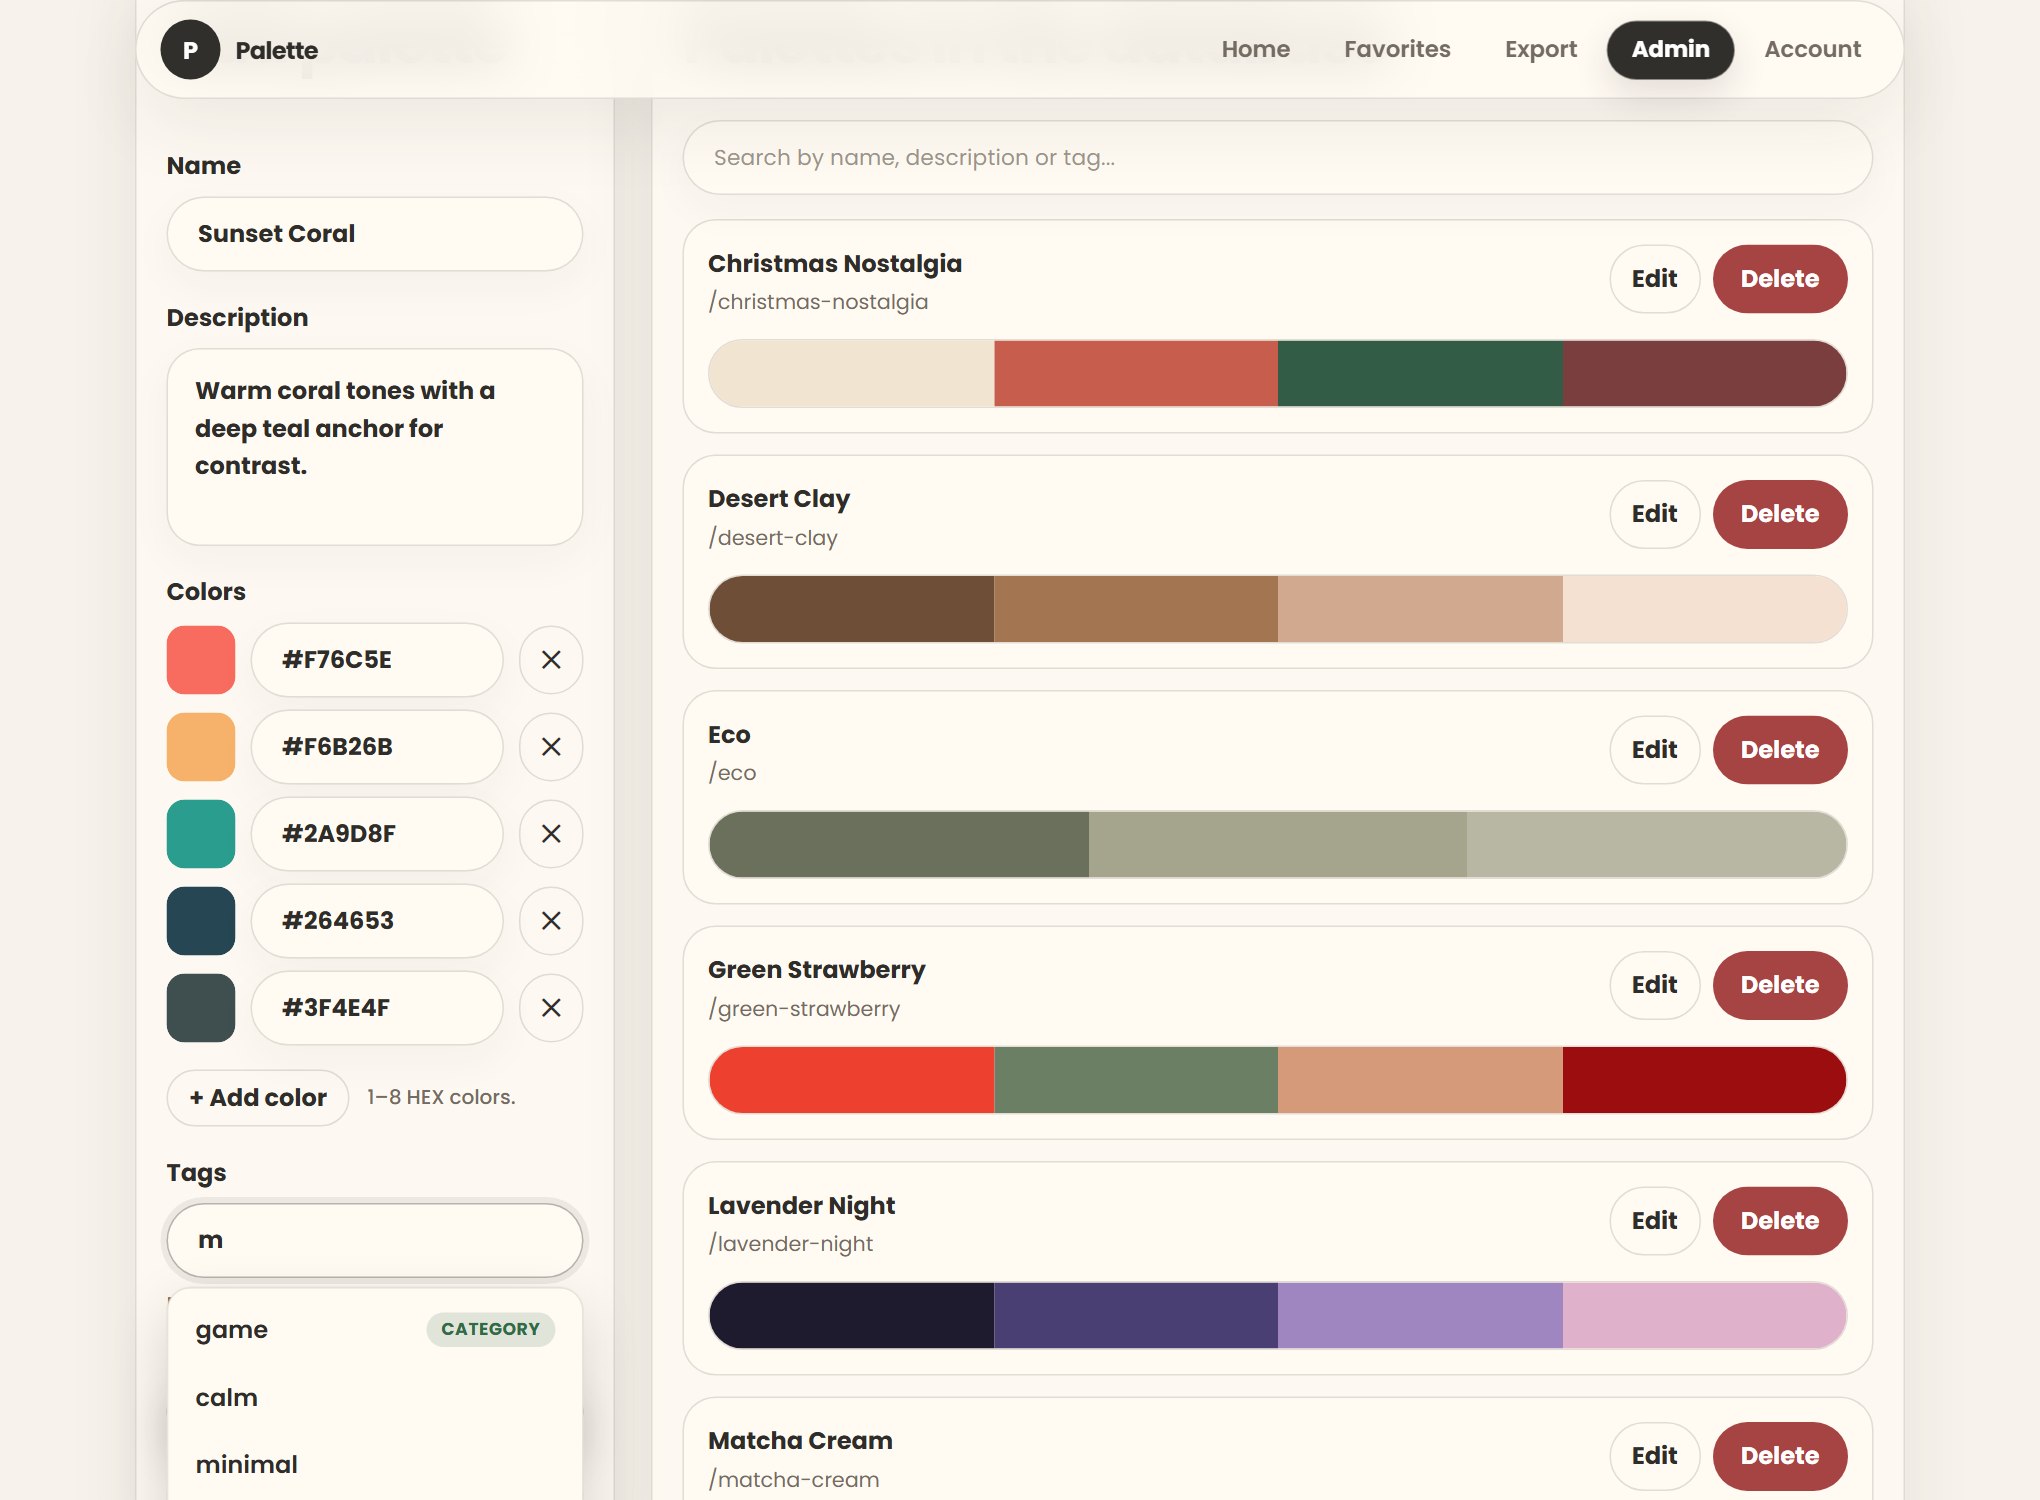
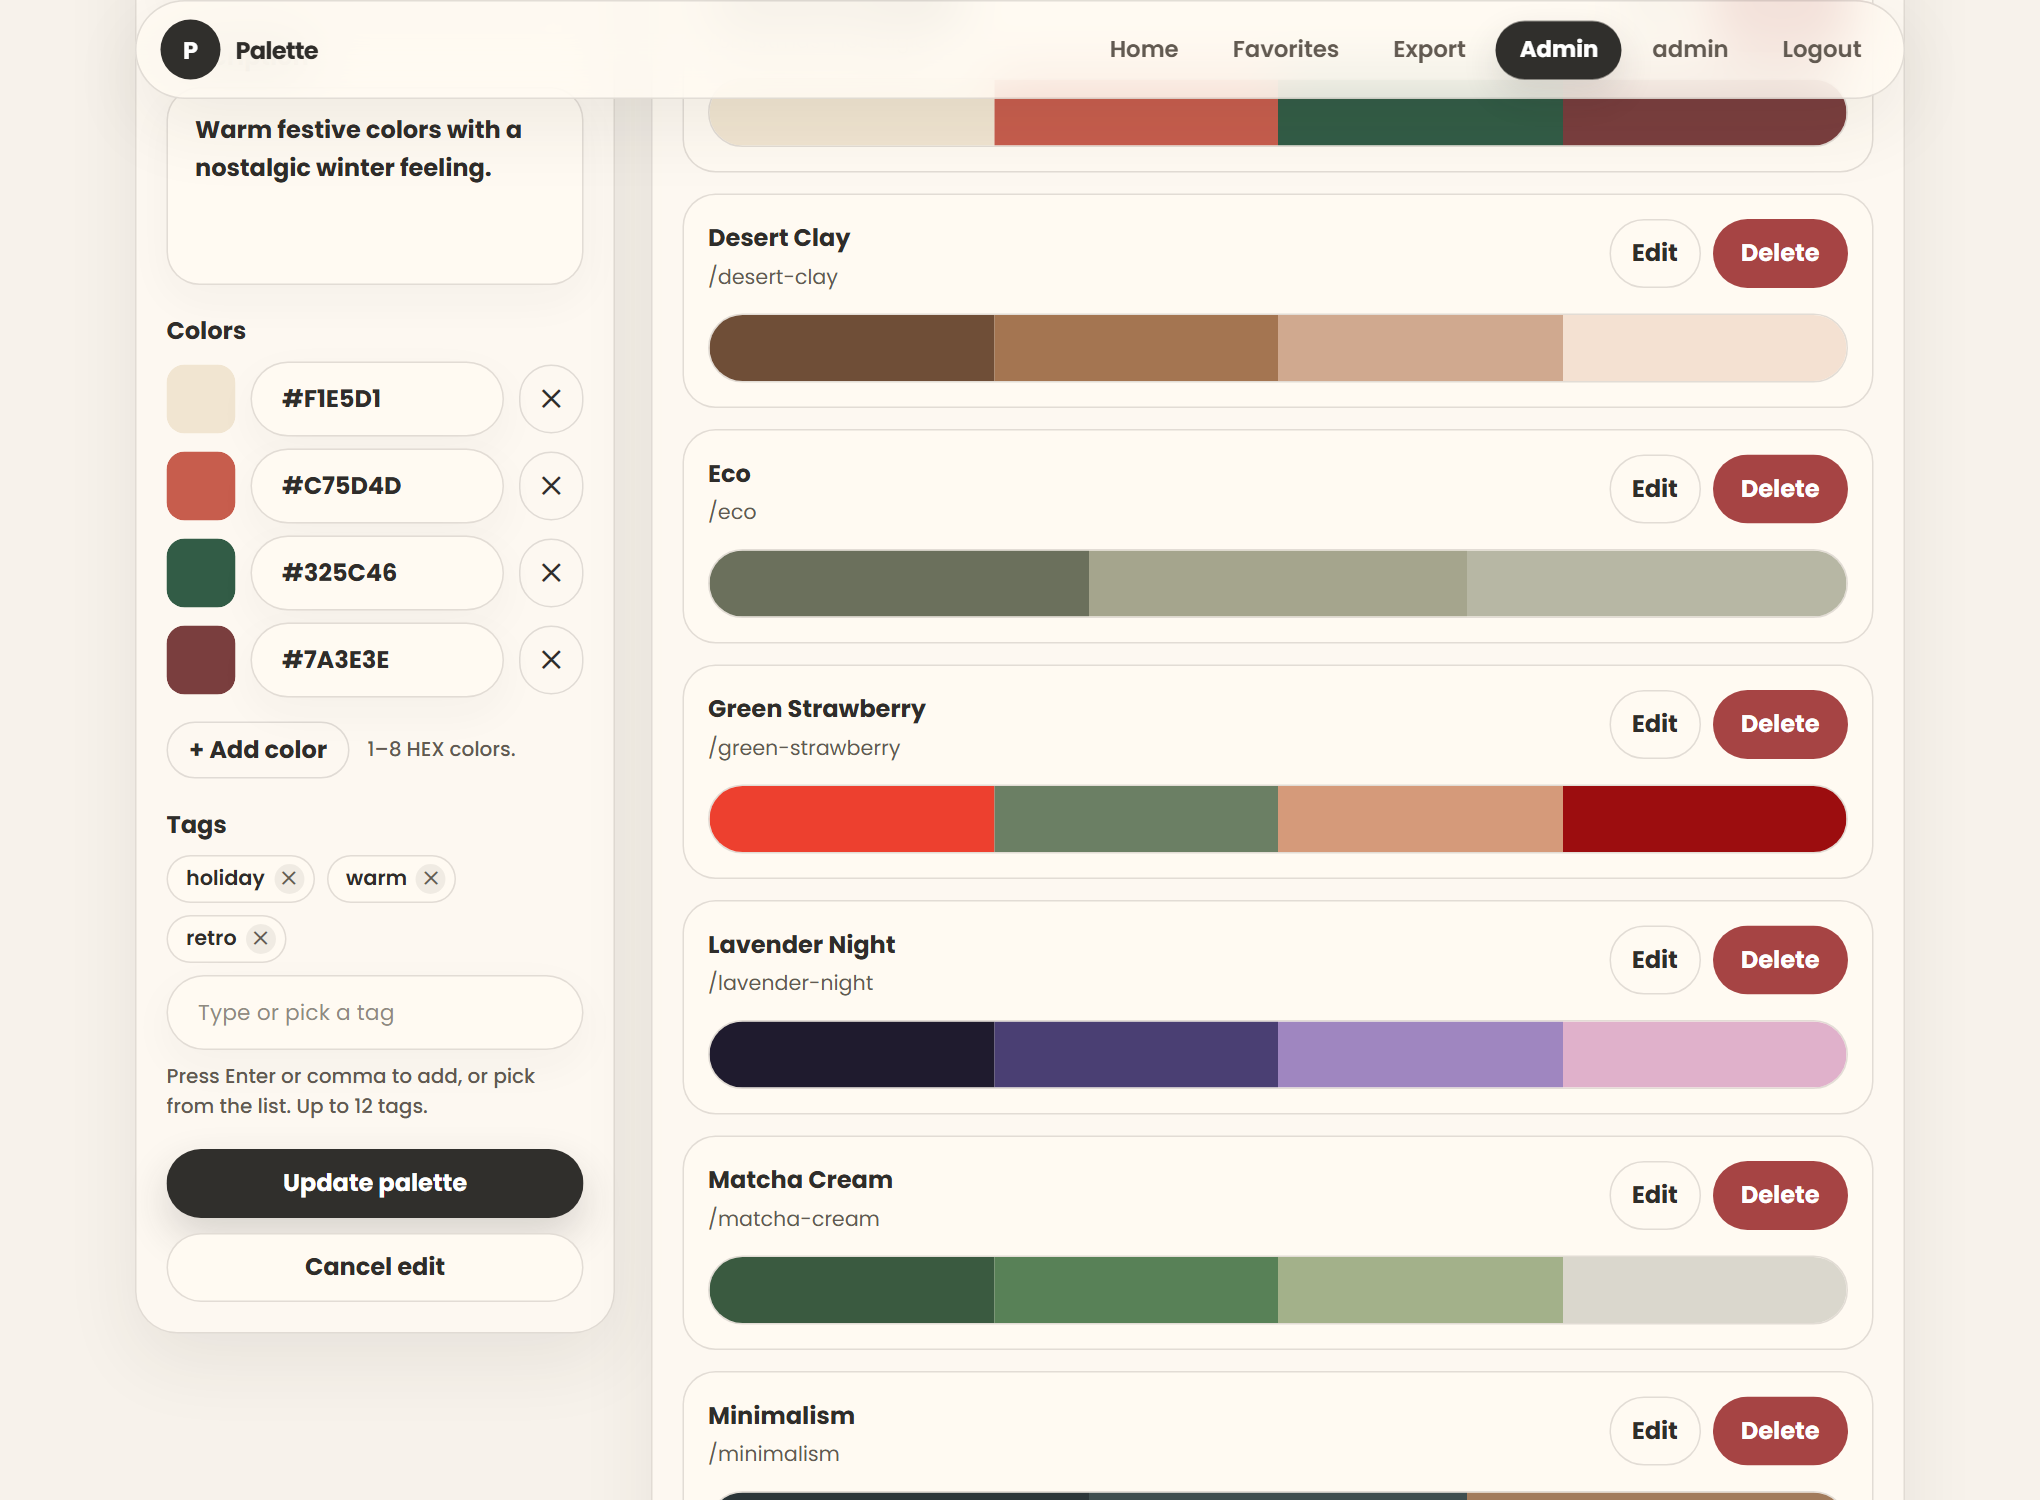
docs: regenerate the screenshots, and fix what the graph found
The three images the README embeds were captured by hand and then went eight
releases untouched. home.png still advertised v4.7.1 in the hero and described
that release's features; export.png's footer said the same. That is what anyone
opening the README saw.

They are generated now. `npm run screenshots` brings the Compose stack up,
captures against the real backend and seeded database, and tears it down — so
the next release is one command rather than a chore nobody remembers.

Getting them right took four attempts, and each failure is written into the
spec so it is not repeated:

- At 1020 CSS pixels the layout hits a narrower breakpoint and the tag filters
  fall below the fold. The capture is 1360x1000 at 1.5x, which is the same
  2040x1500 on disk but the desktop layout the captions describe.
- The admin shot needed the colour rows scrolled into frame, and the obvious
  target did not work: "Tags" also matches the Palettes/Tags tab near the top,
  so centring it scrolled nowhere. Two captures shipped identical to the old
  frame before an assertion on window.scrollY caught it.
- The export shot defaulted to CSS variables while its caption promised the PNG
  preview, so it now switches format first.

Two drifts a knowledge-graph pass over the repository surfaced, both verified
against the code before changing anything:

- docs/database.md said the connection uses `postgresql+psycopg://`. Compose
[…]

diff --git a/frontend-react/e2e/screenshots/capture.spec.ts b/frontend-react/e2e/screenshots/capture.spec.ts
@@ -1,0 +1,103 @@
+import { test, expect, type Page } from "@playwright/test";
+import path from "node:path";
+import { fileURLToPath } from "node:url";
+
+/**
+ * Regenerates the three screenshots the README and the wiki embed.
+ *
+ * These are not assertions and nothing fails if the page looks different — that is what the
+ * baselines under e2e/visual are for. This exists because the previous set was captured by
+ * hand and then sat unchanged through eight releases: the hero in docs/assets/home.png still
+ * advertised v4.7.1 and described features from that release. A capture nobody can reproduce
+ * is a capture nobody updates.
+ *
+ * Against the real stack rather than stubs, because the point of these images is to show the
+ * product with its actual seeded data — the palette names and the count are real.
+ */
+
+// __dirname does not exist in an ES module, and resolving from cwd would depend on where the
+// runner was invoked. Derive it from this file instead.
+const HERE = path.dirname(fileURLToPath(import.meta.url));
+const OUT = path.resolve(HERE, "../../../docs/assets");
+
+const ADMIN_USER = process.env.SCREENSHOT_ADMIN_USER ?? "admin";
+const ADMIN_PASSWORD = process.env.SCREENSHOT_ADMIN_PASSWORD ?? "";
+
+// 2040x1500 on disk, matching the previous set and the README's table layout. The split
+// matters as much as the product: at 1020 CSS pixels the layout hits a narrower breakpoint,
+// the type scales up and the tag filters fall below the fold — the first attempt captured a
+// page that stopped at the search field, which is not what the caption promises.
+test.use({ viewport: { width: 1360, height: 1000 }, deviceScaleFactor: 1.5 });
+
+async function settle(page: Page) {
+  await page.evaluate(() => document.fonts.ready);
+  await page.evaluate(() => {
+    document.documentElement.style.scrollBehavior = "auto";
+    window.scrollTo(0, 0);
+  });
+  await page.waitForTimeout(400);
+}
+
+async function signInAsAdmin(page: Page) {
+  await page.goto("/login");
+  await page.getByLabel("Username/Email").fill(ADMIN_USER);
+  await page.locator('input[type="password"]').first().fill(ADMIN_PASSWORD);
+  await page.getByRole("button", { name: "Login", exact: true }).click();
+  await expect(page.getByRole("link", { name: ADMIN_USER, exact: true })).toBeVisible();
+}
+
+test("home", async ({ page }) => {
+  await page.goto("/", { waitUntil: "networkidle" });
+  await expect(page.getByRole("article").first()).toBeVisible();
+  await settle(page);
+  await page.screenshot({ path: path.join(OUT, "home.png") });
+});
+
+test("export", async ({ page }) => {
+  await page.goto("/export", { waitUntil: "networkidle" });
+
+  // A picked palette with its preview rendered — an empty export page shows nothing worth
+  // putting in a README. The field is "Search palette", not the home page's search box.
+  await page.getByLabel("Search palette").fill("Green Strawberry");
+  await page
+    .getByRole("button", { name: /Green Strawberry/i })
+    .first()
+    .click();
+  await expect(page.getByText(/Green Strawberry/).first()).toBeVisible();
+
+  // PNG, not the default CSS variables: the caption promises "a selected palette with the PNG
+  // preview", and the code output is already visible on the page in every other form.
+  await page.getByRole("button", { name: /format/i }).click();
+  await page.getByRole("option", { name: "PNG image" }).click();
+  await expect(
+    page.getByRole("img", { name: /palette card|preview/i }).first(),
+  ).toBeVisible();
+
+  await settle(page);
+  await page.screenshot({ path: path.join(OUT, "export.png") });
+});
+
+test("admin", async ({ page }) => {
+  test.skip(!ADMIN_PASSWORD, "SCREENSHOT_ADMIN_PASSWORD not provided");
+
+  await signInAsAdmin(page);
+  await page.goto("/admin", { waitUntil: "networkidle" });
+
+  // Open a palette in the colour-row editor: the empty create form does not show the thing the
+  // README caption promises, "the dynamic HEX-row colour editor with tag chips".
+  await page.getByRole("button", { name: "Edit" }).first().click();
+  await expect(page.getByLabel(/^name$/i)).not.toHaveValue("");
+  await settle(page);
+
+  // settle() pins the page at the top, which frames the heading rather than the editor, so
+  // bring the colour rows into view. The target has to be unique to the editor: "Tags" also
+  // matches the Palettes/Tags tab near the top, and centring that scrolled nowhere — two
+  // captures shipped identical to the previous frame before the assertion below caught it.
+  await page
+    .getByRole("button", { name: /add color/i })
+    .evaluate((el) => el.scrollIntoView({ block: "center", behavior: "instant" }));
+  await page.waitForTimeout(400);
+  expect(await page.evaluate(() => window.scrollY)).toBeGreaterThan(0);
+
+  await page.screenshot({ path: path.join(OUT, "admin.png") });
+});

diff --git a/frontend-react/playwright.screenshots.config.ts b/frontend-react/playwright.screenshots.config.ts
@@ -1,0 +1,23 @@
+import { defineConfig, devices } from "@playwright/test";
+
+/**
+ * Capture config for the README and wiki images — a generator, not a test suite.
+ *
+ * Kept apart from playwright.config.ts because these specs write into docs/assets/ and would
+ * be actively wrong to run on a pull request. The default config ignores this directory, the
+ * same way it ignores visual/ and integration/.
+ *
+ * Serial, because the admin capture signs in and the three share one running stack.
+ */
+export default defineConfig({
+  testDir: "./e2e/screenshots",
+  fullyParallel: false,
+  workers: 1,
+  retries: 0,
+  reporter: "list",
+  timeout: 60_000,
+  use: {
+    baseURL: process.env.SCREENSHOT_BASE_URL ?? "http://localhost:5500",
+  },
+  projects: [{ name: "chromium", use: { ...devices["Desktop Chrome"] } }],
+});

diff --git a/frontend-react/playwright.config.ts b/frontend-react/playwright.config.ts
@@ -7,8 +7,9 @@ export default defineConfig({
   // config does not provide. Screenshot baselines only mean anything inside the pinned
   // Playwright image (playwright.visual.config.ts); the integration specs need the whole
   // Compose stack rather than the preview server and a stubbed API
-  // (playwright.integration.config.ts, started by scripts/integration.sh).
-  testIgnore: ["visual/**", "integration/**"],
+  // (playwright.integration.config.ts, started by scripts/integration.sh). The third,
+  // screenshots/, is a generator: it writes into docs/assets and would be wrong to run on a PR.
+  testIgnore: ["visual/**", "integration/**", "screenshots/**"],
   fullyParallel: true,
   forbidOnly: !!process.env.CI,
   retries: process.env.CI ? 1 : 0,

diff --git a/backend/app/config.py b/backend/app/config.py
@@ -101,7 +101,8 @@ class Settings(BaseSettings):
             )
         if not value.startswith("postgresql"):
             raise ValueError(
-                f"DATABASE_URL must be a PostgreSQL URL (postgresql+psycopg://...); got: {value!r}"
+                "DATABASE_URL must be a PostgreSQL URL (postgresql+asyncpg://... — the "
+                f"request path is async; Alembic derives its own sync URL); got: {value!r}"
             )
         return value
 

diff --git a/README.md b/README.md
@@ -26,7 +26,7 @@ Cloudflare + Caddy, auto-deployed on every green build to `main`. Full release h
 
 | Home — browse & filter                                                       | Admin — colour-row editor                                                           | Export — PNG preview                                                      |
 | ---------------------------------------------------------------------------- | ----------------------------------------------------------------------------------- | ------------------------------------------------------------------------- |
-| ![Home page: palette grid with tag filters and search](docs/assets/home.png) | ![Admin panel: dynamic HEX-row colour editor with tag chips](docs/assets/admin.png) | ![Export page: selected palette with PNG preview](docs/assets/export.png) |
+| ![Home page: hero, search field and tag filter chips](docs/assets/home.png) | ![Admin panel: dynamic HEX-row colour editor with tag chips](docs/assets/admin.png) | ![Export page: selected palette with PNG preview](docs/assets/export.png) |
 
 ![Demo: live search filtering the palette grid down to matching palettes](docs/assets/demo.gif)
 
@@ -259,7 +259,11 @@ docker compose run --rm backend alembic revision -m "describe change"
 
 ```text
 Palette/
-├── frontend/                 # HTML pages, css/, js/ (api, pages, components, utils) — no build
+├── frontend-react/
+│   ├── src/                  # api, auth, components, pages, lib, styles (*.css.ts)
+│   ├── e2e/                  # Playwright: flows, a11y, focus · visual/ · integration/ · screenshots/
+│   ├── scripts/              # visual.sh, integration.sh, lighthouse.sh, screenshots.sh
+│   └── Dockerfile            # multi-stage build, served by nginx
 ├── backend/
 │   ├── app/                  # main, config, database, models, schemas, security, routers/, crud
 │   ├── alembic/              # migrations
@@ -267,7 +271,7 @@ Palette/
 │   └── requirements*.txt
 ├── docs/                     # architecture, deploy, ops, secrets, api, auth, database, setup…
 ├── scripts/                  # backup-db.sh, split-secrets.sh
-├── .github/workflows/        # ci.yml, deploy.yml
+├── .github/workflows/        # ci.yml, deploy.yml, codeql.yml
 ├── docker-compose.yml        # + docker-compose.prod.yml, docker-compose.staging.yml
 ├── secrets/                  # SOPS-encrypted prod + staging env (safe to commit)
 ├── CHANGELOG.md · ROADMAP.md

diff --git a/docs/assets/README.md b/docs/assets/README.md
@@ -1,12 +1,41 @@
 # Screenshot & demo assets
 
-Drop the images referenced by the root `README.md` here. Suggested set:
+The images the root `README.md` embeds. Three of the four are generated — do not replace them
+by hand.
 
-| File | What to capture |
-|---|---|
-| `home.png` | Home page — palette grid with tag filters and search |
-| `admin.png` | Admin panel — the dynamic HEX-row colour editor with tag chips |
-| `export.png` | Export page — a selected palette with the PNG preview |
-| `demo.gif` | Short screen recording: search → open a palette → export |
+| File | What it shows | How it is made |
+| --- | --- | --- |
+| `home.png` | Home — hero, search, tag filters | `npm run screenshots` |
+| `admin.png` | Admin — the HEX-row colour editor with tag chips | `npm run screenshots` |
+| `export.png` | Export — a selected palette with its PNG preview | `npm run screenshots` |
+| `demo.gif` | Live search filtering the palette grid | hand-recorded |
 
-Keep them reasonably sized (long edge ~1400px, PNG compressed) so the README stays light.
+## Regenerating
+
+From `frontend-react/`:
+
+```bash
+npm run screenshots        # or: bash scripts/screenshots.sh
+```
+
+It brings the whole Compose stack up, captures against the real backend and seeded database —
+the palette names and the counts in these images are real — writes the three PNGs here, and
+tears the stack down. Ports 5500 and 8000 must be free.
+
+**Run it as part of a release**, once the version string in the hero and footer has changed.
+The previous set was captured by hand and then went eight releases untouched: `home.png` was
+still advertising v4.7.1 in the hero and describing that release's features, which is what
+anyone opening the README saw.
+
+## Why they look the way they do
+
+2040x1500, from a 1360x1000 viewport at 1.5x. The width is not arbitrary: at 1020 CSS pixels
+the layout hits a narrower breakpoint, the type scales up and the tag filters fall below the
+fold, so the capture no longer shows what its caption claims.
+
+Two of the three need more than a page load, and the spec says why in each case — the admin
+capture scrolls the colour rows into frame, and the export capture switches the format to PNG,
+because otherwise both show a page that does not match its caption.
+
+`demo.gif` stays hand-recorded. It demonstrates typing, which is worth far more as a real
+recording than as a scripted one, and the interaction it shows has not changed.

diff --git a/docs/database.md b/docs/database.md
@@ -6,14 +6,16 @@ refuses to start without a `postgresql://` `DATABASE_URL`.
 The URL is set automatically by Docker Compose:
 
 ```text
-postgresql+psycopg://palette:palette@db:5432/palette
+postgresql+asyncpg://palette:palette@db:5432/palette
 ```
 
 The data lives in the PostgreSQL `db` service and persists in the `pgdata` volume. The
 test suite runs against a separate disposable PostgreSQL (`test-db` service, database
 `palette_test`) via `docker compose --profile test run --rm tests`.
 
-Connectivity uses the psycopg 3 driver (`postgresql+psycopg://`).
+The request path is async end to end, so the URL Compose injects uses the **asyncpg**
+driver. Alembic runs its migrations synchronously against the same database — that split
+is why `database.py` builds a separate synchronous URL for the migration step.
 
 ---
 
